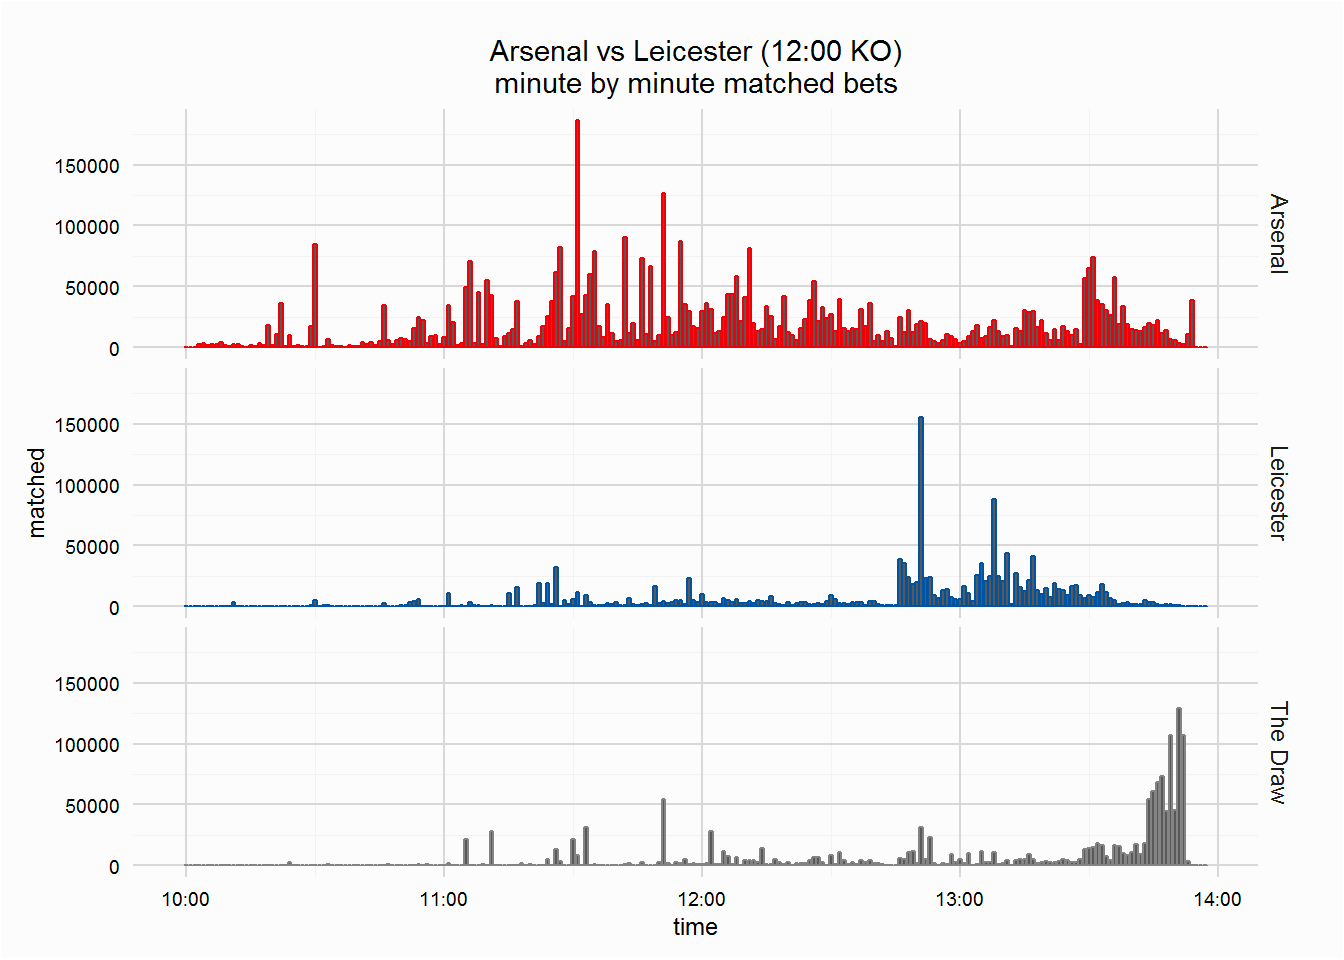
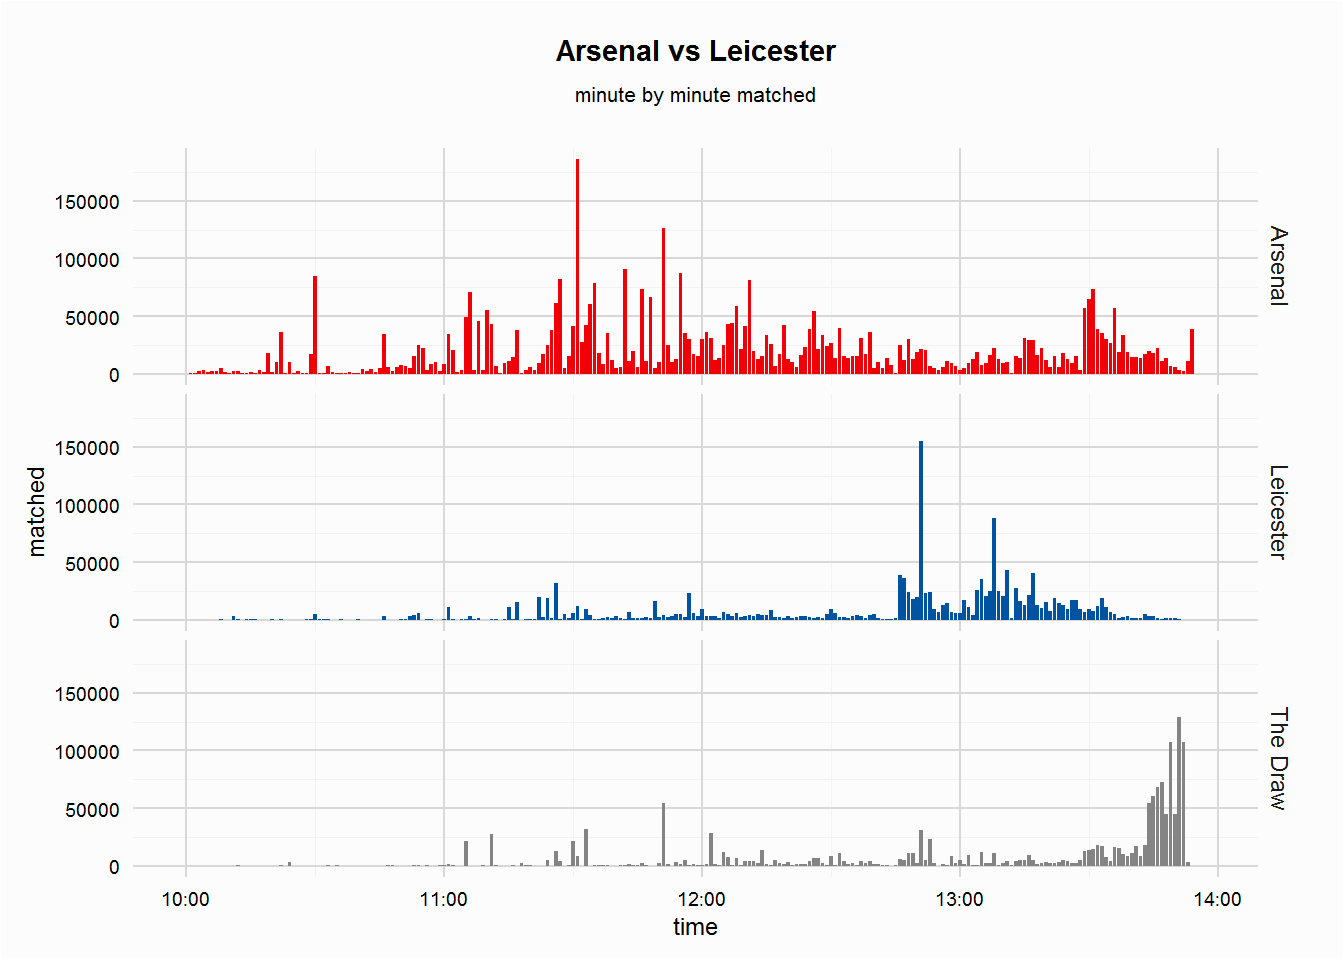
small progress

diff --git a/vignette_three.html b/vignette_three.html
@@ -234,18 +234,22 @@ img {
 
 <p>This is a follow up post to the <a href="http://durtal.github.io/betfaiR/vignette_two.html">cron jobs w/ betfaiR</a> post, which walked through scheduling a task to periodically collect betfair data. The data collected came from 3 markets on 14/02/16, the early match between Arsenal and Leicester, the late match between Man City and Spurs, and the Premier League Outright market. This post will summarise and plot some of the data, given some of action, especially in the early game which saw Leicester take the lead, get a man sent off and then lose, we should see some interest movements not only in that market but the outright market too.</p>
 <p>(there was a period, around 23minutes from 15:57 to 16:20, where the task was stopped as my laptop was running off its battery, not something I saw being an issue)</p>
-<div id="arsenal-vs-leicester" class="section level2">
-<h2>arsenal vs leicester</h2>
-<p>The early game saw league leaders Leicester travel to the Emirates fresh off a superb away performance at the Etihad. Arsenal were favourites going into the crucial game, starting the game at <strong>1.69</strong> (having been 1.79 at 10:00am), while Leicester</p>
 <div class="row">
-<div class="col-sm-6">
-<p><img src="vignette_three_files/figure-html/ars-lei-1.png" title="" alt="" width="672" style="display: block; margin: auto;" /></p>
+<div class="col-sm-5">
+<h2 id="arsenal-vs-leicester">arsenal vs leicester</h2>
+<p>The early game saw league leaders Leicester travel to the Emirates fresh off a superb away performance at the Etihad. Arsenal were favourites going into the crucial game, starting the game at <strong>1.69</strong> (having been 1.79 at 10:00am), while Leicester started the game <strong>5.5</strong>.</p>
+<p>The Premier League title market also favoured Arsenal at <strong>3</strong>, Leicester were second favourites <strong>3.65</strong></p>
 </div>
-<div class="col-sm-6">
+<div class="col-sm-7">
+<img src="vignette_three_files/figure-html/ars-lei-price-1.png" title="" alt="" width="672" style="display: block; margin: auto;" />
+<p style="text-align:right;">
+<sub><a href="https://raw.githubusercontent.com/durtal/betfaiR/gh-pages/vignette_three_files/figure-html/ars-lei-price-1.png" target="_new">enlarge</a></sub>
+</p>
+</div>
+</div>
 <p><img src="vignette_three_files/figure-html/ars-lei-matched-1.png" title="" alt="" width="672" style="display: block; margin: auto;" /></p>
-</div>
-</div>
-</div>
+<a href="https://github.com/durtal/betfaiR" class="github-corner"><svg width="80" height="80" viewBox="0 0 250 250" style="fill:#d9230f; color:#fcfcfc; position: absolute; top: 0; border: 0; right: 0;"><path d="M0,0 L115,115 L130,115 L142,142 L250,250 L250,0 Z"></path><path d="M128.3,109.0 C113.8,99.7 119.0,89.6 119.0,89.6 C122.0,82.7 120.5,78.6 120.5,78.6 C119.2,72.0 123.4,76.3 123.4,76.3 C127.3,80.9 125.5,87.3 125.5,87.3 C122.9,97.6 130.6,101.9 134.4,103.2" fill="currentColor" style="transform-origin: 130px 106px;" class="octo-arm"></path><path d="M115.0,115.0 C114.9,115.1 118.7,116.5 119.8,115.4 L133.7,101.6 C136.9,99.2 139.9,98.4 142.2,98.6 C133.8,88.0 127.5,74.4 143.8,58.0 C148.5,53.4 154.0,51.2 159.7,51.0 C160.3,49.4 163.2,43.6 171.4,40.1 C171.4,40.1 176.1,42.5 178.8,56.2 C183.1,58.6 187.2,61.8 190.9,65.4 C194.5,69.0 197.7,73.2 200.1,77.6 C213.8,80.2 216.3,84.9 216.3,84.9 C212.7,93.1 206.9,96.0 205.4,96.6 C205.1,102.4 203.0,107.8 198.3,112.5 C181.9,128.9 168.3,122.5 157.7,114.1 C157.9,116.9 156.7,120.9 152.7,124.9 L141.0,136.5 C139.8,137.7 141.6,141.9 141.8,141.8 Z" fill="currentColor" class="octo-body"></path></svg></a>
+<style>.github-corner:hover .octo-arm{animation:octocat-wave 560ms ease-in-out}@keyframes octocat-wave{0%,100%{transform:rotate(0)}20%,60%{transform:rotate(-25deg)}40%,80%{transform:rotate(10deg)}}@media (max-width:500px){.github-corner:hover .octo-arm{animation:none}.github-corner .octo-arm{animation:octocat-wave 560ms ease-in-out}}</style>
 
 
 </div>
